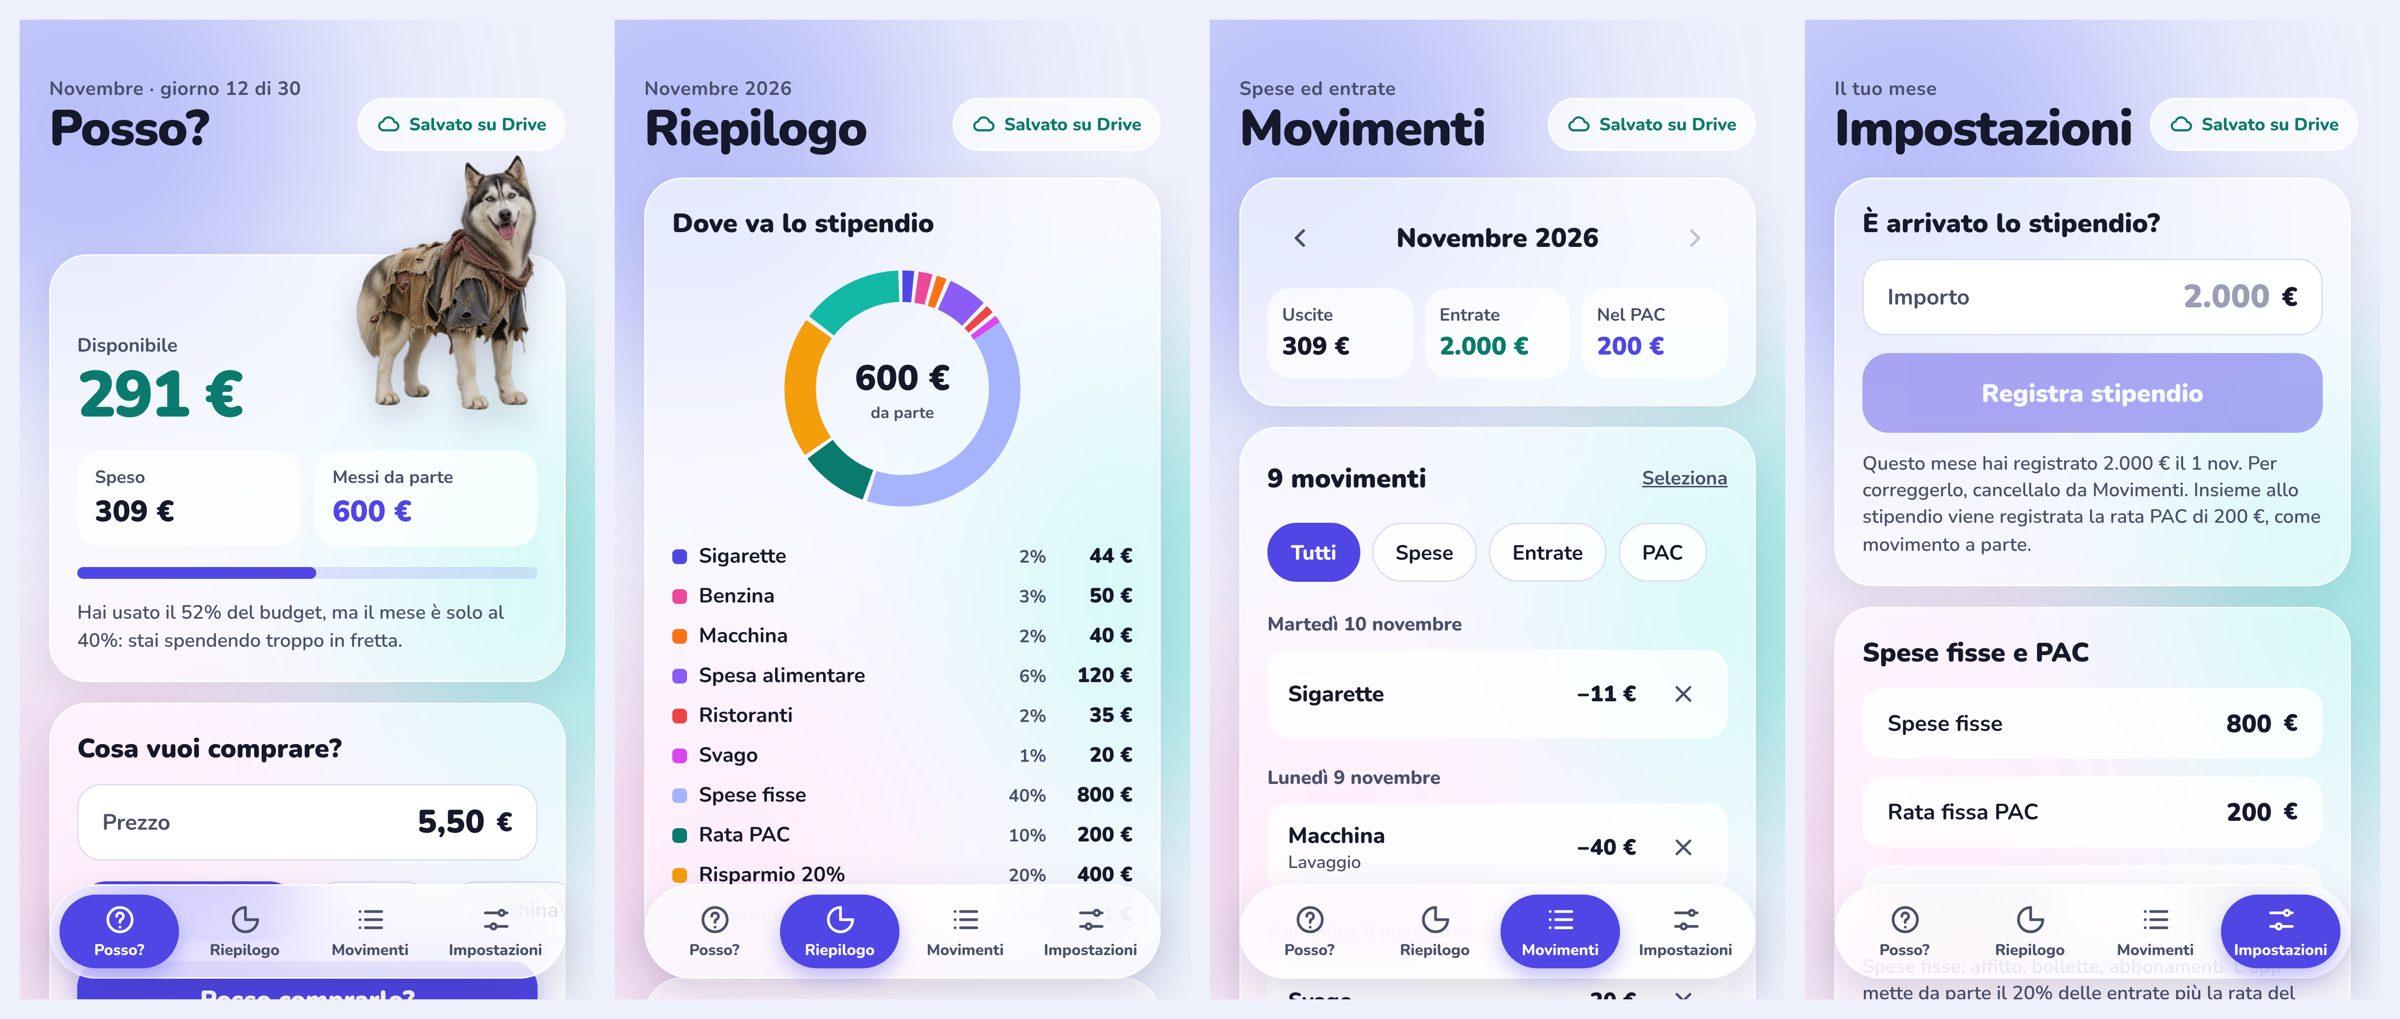
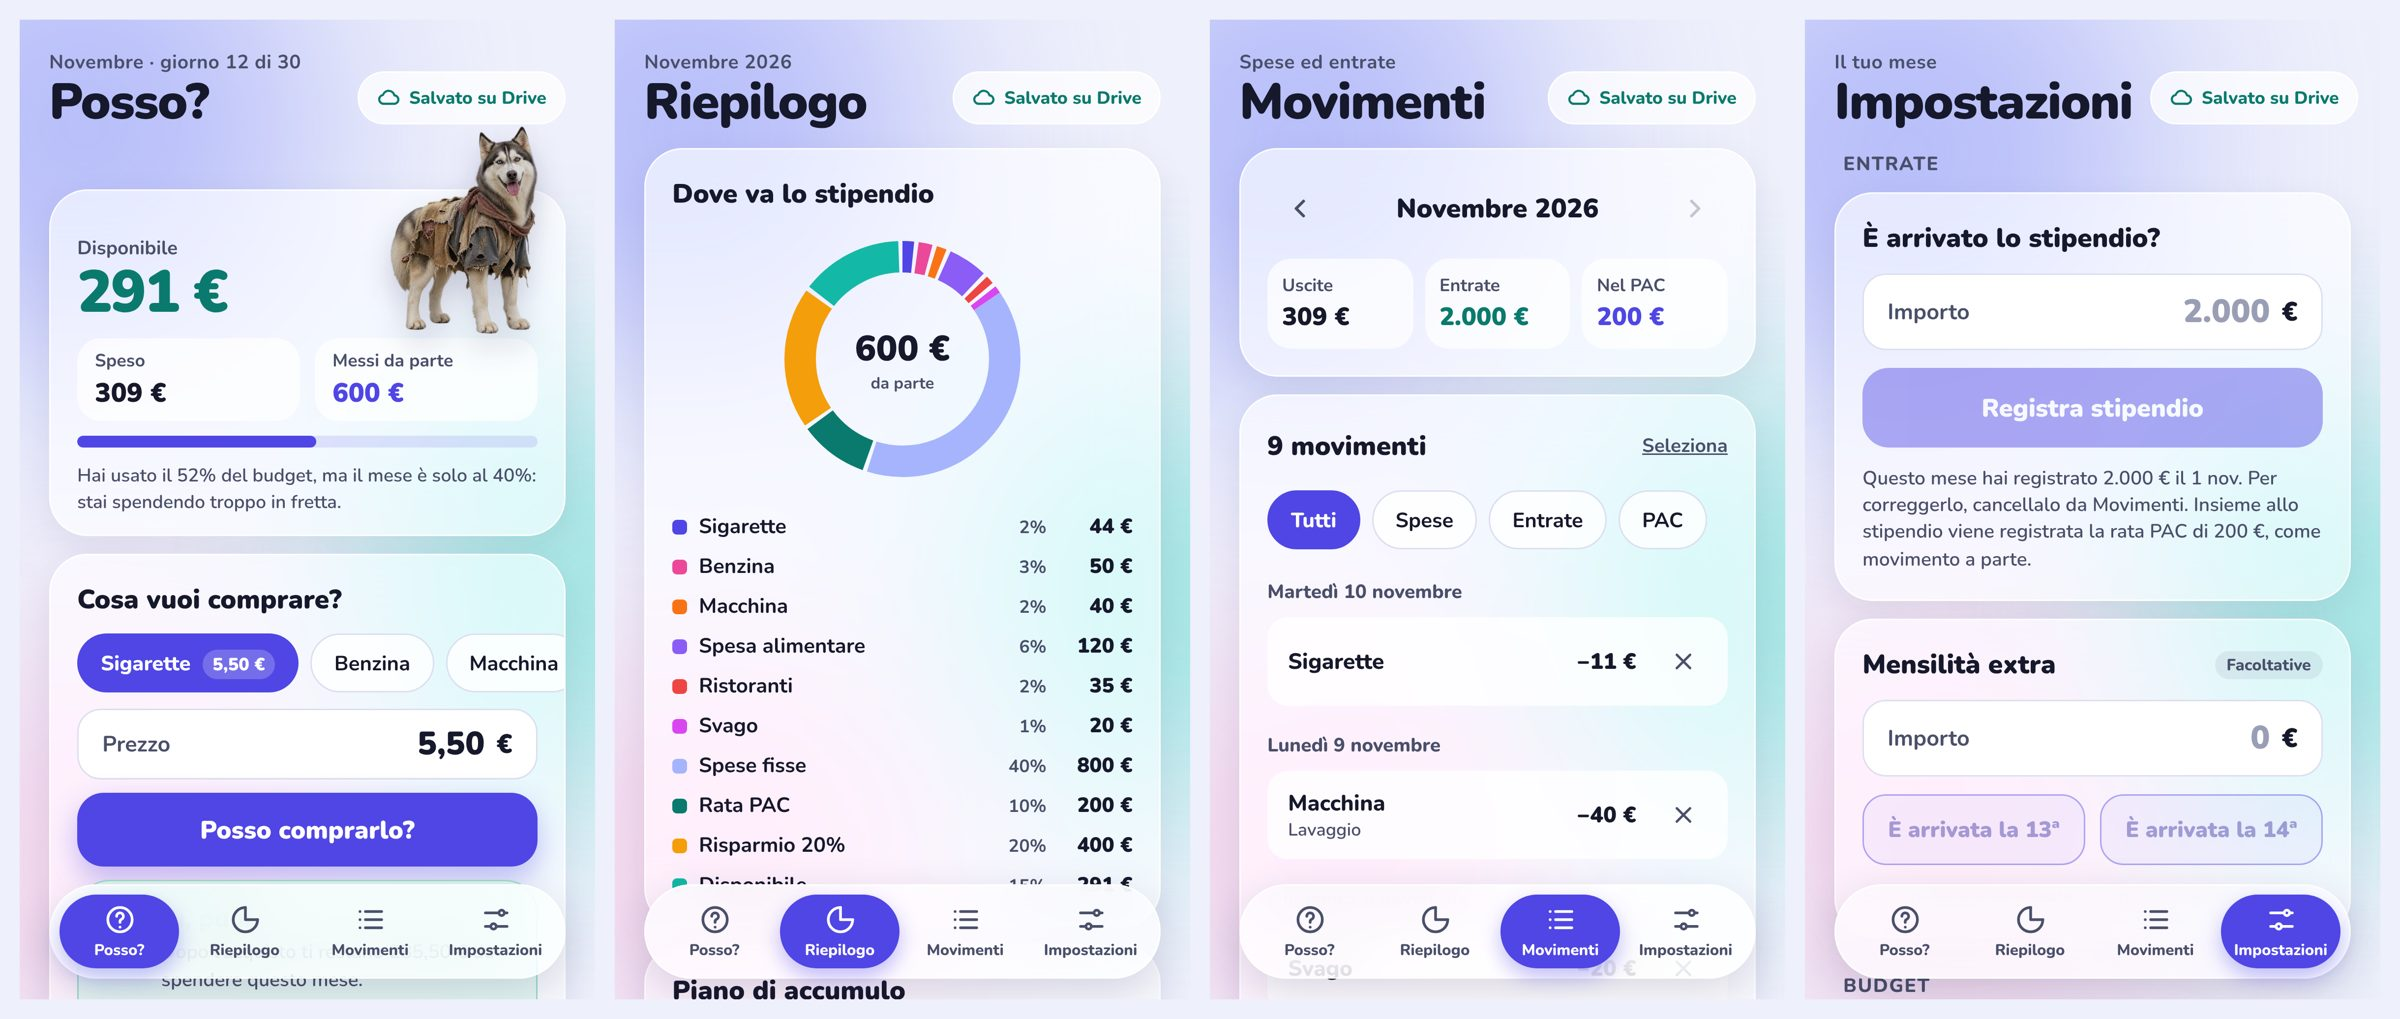
Schermate riordinate per l'uso quotidiano
Solo disposizione e ordine, nessuna funzione cambiata:
- Posso?: saldo più compatto; categoria prima del prezzo (Sigarette propone
  5,50 €), risposta subito sotto il bottone nello stesso riquadro; tutto
  visibile senza scorrere
- Riepilogo: piano di accumulo subito dopo la ciambella, con il bottone
  per la rata mancante
- Movimenti: barra Elimina in basso e sempre visibile durante la selezione
- Impostazioni: gruppi Entrate, Budget, Account e dati; 13ª e 14ª accanto
  allo stipendio
- README e immagine delle schermate aggiornati

Claude-Session: https://claude.ai/code/session_018e1DbR9MNBDqJLmGHoq1CP

diff --git a/app.js b/app.js
@@ -264,25 +264,24 @@
         <p class="nota">${frase}</p>
       </section>
 
-      <section class="vetro" aria-labelledby="t-compra">
+      <section class="vetro compra" aria-labelledby="t-compra">
         <h2 id="t-compra">Cosa vuoi comprare?</h2>
-        <label class="campo"><span class="nome-campo">Prezzo</span>
-          <input type="text" inputmode="decimal" autocomplete="off" placeholder="0" value="${esc(S.prezzo)}" data-campo="prezzo" aria-label="Prezzo in euro"><span class="euro">€</span>
-        </label>
         <div class="pillole" role="group" aria-label="Categoria">
           ${D.categorie.slice().sort((a, b) => (b.prezzo > 0) - (a.prezzo > 0)).map((c) => `<button type="button" class="pillola${c.prezzo > 0 ? ' rapida' : ''}" data-act="cat" data-id="${c.id}" aria-pressed="${c.id === S.catId}">${esc(c.nome)}${c.prezzo > 0 ? ` <span class="prezzo-rapido">${eur(c.prezzo)}</span>` : ''}</button>`).join('')}
         </div>
+        <label class="campo"><span class="nome-campo">Prezzo</span>
+          <input type="text" inputmode="decimal" autocomplete="off" placeholder="0" value="${esc(S.prezzo)}" data-campo="prezzo" aria-label="Prezzo in euro"><span class="euro">€</span>
+        </label>
         <button type="button" class="btn" data-act="chiedi" data-pulsante="chiedi"${pronto ? '' : ' disabled'}>Posso comprarlo?</button>
-      </section>
-
-      ${v ? `<section class="verdetto ${v.ok ? 'si' : 'no'}" aria-live="polite" id="verdetto">
-        ${v.ok ? ICONA.si : ICONA.no}
-        <div class="colonna">
-          <span class="titolo-v">${v.titolo}</span>
-          <span class="nota">${esc(v.motivo)}</span>
-          <button type="button" class="link" data-act="registra">${v.ok ? "L'ho comprato, registra la spesa" : 'Lo compro lo stesso'}</button>
-        </div>
-      </section>` : ''}`;
+        ${v ? `<div class="verdetto ${v.ok ? 'si' : 'no'}" aria-live="polite" id="verdetto">
+          ${v.ok ? ICONA.si : ICONA.no}
+          <div class="colonna">
+            <span class="titolo-v">${v.titolo}</span>
+            <span class="nota">${esc(v.motivo)}</span>
+            <button type="button" class="link" data-act="registra">${v.ok ? "L'ho comprato, registra la spesa" : 'Lo compro lo stesso'}</button>
+          </div>
+        </div>` : ''}
+      </section>`;
   }
 
   function viewRiepilogo() {
@@ -334,6 +333,15 @@
           </ul>
         </div>
         ${C.entrate() <= 0 ? '<p class="nota">Registra lo stipendio di questo mese per vedere come si divide.</p>' : ''}
+      </section>
+
+      <section class="vetro" aria-labelledby="t-pac">
+        <h2 id="t-pac">Piano di accumulo</h2>
+        <div class="griglia3">
+          <div class="mini"><span>Rata mensile</span><strong>${eur(D.pac)}</strong></div>
+          <div class="mini"><span>Versato finora</span><strong style="color: var(--verde)" data-conta="versato" data-valore="${C.versatoPac()}">${eur(C.versatoPac())}</strong></div>
+          <div class="mini"><span>13ª e 14ª</span><strong>${eur(C.extraAnno())}</strong></div>
+        </div>
         ${pacMancante ? `<button type="button" class="btn-sec" data-act="registra-pac">Registra la rata PAC di questo mese (${eur(D.pac)})</button>` : ''}
       </section>
 
@@ -352,15 +360,6 @@
         <div class="colonna"><span class="titolo-a">Sigarette in un anno</span><span class="nota">A questo ritmo: ${eur(sigMese)} al mese</span></div>
         <span class="cifra" data-conta="sigarette" data-formato="0" data-valore="${sigMese * 12}">${eur0(sigMese * 12)}</span>
       </section>` : ''}
-
-      <section class="vetro" aria-labelledby="t-pac">
-        <h2 id="t-pac">Piano di accumulo</h2>
-        <div class="griglia3">
-          <div class="mini"><span>Rata mensile</span><strong>${eur(D.pac)}</strong></div>
-          <div class="mini"><span>Versato finora</span><strong style="color: var(--verde)" data-conta="versato" data-valore="${C.versatoPac()}">${eur(C.versatoPac())}</strong></div>
-          <div class="mini"><span>13ª e 14ª</span><strong>${eur(C.extraAnno())}</strong></div>
-        </div>
-      </section>
 
       <button type="button" class="vetro vai-movimenti" data-act="tab" data-id="movimenti">
         <span class="colonna"><span class="principale">Movimenti del mese</span><span class="nota">${ultime.length} ${ultime.length === 1 ? 'movimento' : 'movimenti'} · vedi e cancella</span></span>
@@ -434,10 +433,6 @@
           ${voci.length ? `<button type="button" class="link" data-act="seleziona">${sel ? 'Fine' : 'Seleziona'}</button>` : ''}
         </div>
         <div class="pillole" role="group" aria-label="Mostra">${filtro('tutti', 'Tutti')}${filtro('spese', 'Spese')}${filtro('entrate', 'Entrate')}${filtro('risparmi', 'PAC')}</div>
-        ${sel && voci.length ? `<div class="barra-selezione">
-          <button type="button" class="link" data-act="seleziona-tutti">${nSel === voci.length ? 'Deseleziona tutti' : 'Seleziona tutti'}</button>
-          <button type="button" class="btn-pericolo" data-act="elimina-selezionati" data-pulsante="selezionati"${nSel ? '' : ' disabled'}>Elimina <span data-conta-sel>${nSel}</span></button>
-        </div>` : ''}
         ${voci.length ? gruppi.map((g) => `<div class="giorno">
           <h3 class="giorno-titolo">${esc(g.titolo)}</h3>
           <ul class="lista">${g.voci.map((v) => `<li class="voce-lista${sel && sel.has(v.id) ? ' scelta' : ''}">
@@ -447,6 +442,10 @@
             ${sel ? '' : `<button type="button" class="x" data-act="elimina-mov" data-id="${v.id}" data-tipo="${v.tipo}" aria-label="Elimina ${esc(v.titolo)} di ${eur(v.importo)}">${ICONA.x}</button>`}
           </li>`).join('')}</ul>
         </div>`).join('') : `<p class="nota">${tutte.length ? 'Nessun movimento di questo tipo.' : 'Nessun movimento in questo mese.'}</p>`}
+        ${sel && voci.length ? `<div class="barra-selezione">
+          <button type="button" class="link" data-act="seleziona-tutti">${nSel === voci.length ? 'Deseleziona tutti' : 'Seleziona tutti'}</button>
+          <button type="button" class="btn-pericolo" data-act="elimina-selezionati" data-pulsante="selezionati"${nSel ? '' : ' disabled'}>Elimina <span data-conta-sel>${nSel}</span></button>
+        </div>` : ''}
       </section>`;
   }
 
@@ -458,6 +457,7 @@
       <input type="text" inputmode="decimal" autocomplete="off" placeholder="0" value="${esc(valore)}" data-campo="${campo}" ${extraAttr || ''}><span class="euro">€</span></label>`;
 
     return `${testata('Il tuo mese', 'Impostazioni')}
+      <h2 class="gruppo-titolo">Entrate</h2>
       <section class="vetro" aria-labelledby="t-arrivato">
         <h2 id="t-arrivato">È arrivato lo stipendio?</h2>
         <label class="campo"><span class="nome-campo">Importo</span>
@@ -467,14 +467,6 @@
         <p class="nota">${stipendiMese.length
           ? `Questo mese hai registrato ${stipendiMese.map((e) => `${eur(e.importo)} il ${giorno.format(new Date(e.data))}`).join(' e ')}. Per correggerlo, cancellalo da Movimenti.`
           : 'Lo stipendio non è fisso: registralo ogni mese quando arriva.'}${D.pac > 0 ? ` Insieme allo stipendio viene registrata la rata PAC di ${eur(D.pac)}, come movimento a parte.` : ''}</p>
-      </section>
-
-      <section class="vetro" aria-labelledby="t-fisse">
-        <h2 id="t-fisse">Spese fisse e PAC</h2>
-        ${campoEuro('Spese fisse', 'speseFisse', numero(D.speseFisse))}
-        ${campoEuro('Rata fissa PAC', 'pac', numero(D.pac))}
-        ${campoEuro('PAC già versato', 'pacBase', numero(D.pacTotale))}
-        <p class="nota">Spese fisse: affitto, bollette, abbonamenti. L'app mette da parte il 20% delle entrate più la rata del PAC. "PAC già versato" è quanto avevi prima di usare l'app.</p>
       </section>
 
       <section class="vetro" aria-labelledby="t-extra">
@@ -489,6 +481,15 @@
         ${extraAnno.length ? `<ul class="lista">${extraAnno.map((e) => `<li class="voce-lista"><div class="colonna"><span class="principale">${esc(e.nome)}</span><span class="secondaria">${giorno.format(new Date(e.data))}</span></div><strong>${eur(e.importo)}</strong>
           <button type="button" class="x" data-act="elimina-extra" data-id="${e.id}" aria-label="Elimina ${esc(e.nome)}">${ICONA.x}</button></li>`).join('')}</ul>` : ''}
         <p class="nota">Si sommano alle entrate del mese in cui arrivano.</p>
+      </section>
+
+      <h2 class="gruppo-titolo">Budget</h2>
+      <section class="vetro" aria-labelledby="t-fisse">
+        <h2 id="t-fisse">Spese fisse e PAC</h2>
+        ${campoEuro('Spese fisse', 'speseFisse', numero(D.speseFisse))}
+        ${campoEuro('Rata fissa PAC', 'pac', numero(D.pac))}
+        ${campoEuro('PAC già versato', 'pacBase', numero(D.pacTotale))}
+        <p class="nota">Spese fisse: affitto, bollette, abbonamenti. L'app mette da parte il 20% delle entrate più la rata del PAC. "PAC già versato" è quanto avevi prima di usare l'app.</p>
       </section>
 
       <section class="vetro" aria-labelledby="t-categorie">
@@ -510,6 +511,7 @@
         </div>
       </section>
 
+      <h2 class="gruppo-titolo">Account e dati</h2>
       <section class="vetro" aria-labelledby="t-drive" data-drive-sezione>${sezioneDrive()}</section>
 
       <section class="vetro" aria-labelledby="t-backup">

diff --git a/style.css b/style.css
@@ -54,14 +54,14 @@ button:disabled { cursor: default; }
 .app {
   max-width: 480px;
   margin: 0 auto;
-  padding: calc(env(safe-area-inset-top) + 20px) 20px calc(env(safe-area-inset-bottom) + 112px);
+  padding: calc(env(safe-area-inset-top) + 12px) 20px calc(env(safe-area-inset-bottom) + 112px);
   display: flex;
   flex-direction: column;
-  gap: 14px;
+  gap: 12px;
 }
 
 /* Testata */
-.testata { display: flex; align-items: flex-end; justify-content: space-between; gap: 12px; padding-top: 18px; }
+.testata { display: flex; align-items: flex-end; justify-content: space-between; gap: 12px; padding-top: 8px; }
 .sopra { margin: 0; font-size: 13px; font-weight: 700; color: var(--tenue); letter-spacing: 0.02em; }
 h1 { margin: 0; font-size: 34px; font-weight: 900; letter-spacing: -0.02em; line-height: 1.1; }
 h2 { margin: 0; font-size: 18px; font-weight: 900; }
@@ -82,21 +82,21 @@ h2 { margin: 0; font-size: 18px; font-weight: 900; }
 }
 
 /* Saldo con il cane */
-.saldo { position: relative; margin-top: 52px; gap: 14px; }
+.saldo { position: relative; margin-top: 28px; gap: 10px; padding: 14px 18px; }
 .cane {
   position: absolute;
   right: 12px;
-  top: -64px;
-  width: 132px;
-  height: 172px;
+  top: -40px;
+  width: 110px;
+  height: 140px;
   object-fit: contain;
   object-position: bottom center;
   filter: drop-shadow(0 10px 10px rgba(30, 27, 75, 0.22));
   pointer-events: none;
 }
-.disponibile { display: flex; flex-direction: column; gap: 2px; min-height: 100px; justify-content: flex-end; padding-right: 142px; }
+.disponibile { display: flex; flex-direction: column; gap: 0; min-height: 76px; justify-content: flex-end; padding-right: 118px; }
 .etichetta-piccola { font-size: 13px; font-weight: 700; color: var(--tenue); }
-.cifra-grande { font-size: 44px; font-weight: 900; letter-spacing: -0.03em; line-height: 1.05; color: var(--verde); white-space: nowrap; }
+.cifra-grande { font-size: 40px; font-weight: 900; letter-spacing: -0.03em; line-height: 1.05; color: var(--verde); white-space: nowrap; }
 .cifra-grande.negativa { color: var(--rosso); }
 .cifra-grande.lunga { font-size: 34px; }
 .cifra-grande.vuota { color: #9A9EB5; }
@@ -387,6 +387,22 @@ span.test-icona.attesa { border: 2px solid #C9CCDD; }
 span.test-icona.corso { border: 2.5px solid rgba(79, 70, 229, 0.2); border-top-color: var(--accento); animation: gira 0.8s linear infinite; }
 .test li.ok svg, .test li.ko svg { animation: pop 0.4s cubic-bezier(0.34, 1.56, 0.64, 1); }
 .blocco { align-items: center; z-index: 25; }
+
+/* Titoli dei gruppi in Impostazioni */
+.gruppo-titolo { margin: 12px 6px -2px; font-size: 13px; font-weight: 800; letter-spacing: 0.06em; text-transform: uppercase; color: var(--tenue); }
+.testata + .gruppo-titolo { margin-top: 2px; }
+
+/* Posso?: passi e risposta dentro il riquadro dell'acquisto */
+.saldo .mini { padding: 7px 12px; }
+.saldo .nota { font-size: 12.5px; }
+.compra .campo { min-height: 48px; }
+.compra .btn { min-height: 50px; }
+.saldo .mini strong { font-size: 18px; }
+.compra { gap: 9px; }
+.compra .verdetto { -webkit-backdrop-filter: none; backdrop-filter: none; }
+
+/* Movimenti: la barra Elimina resta a portata di pollice mentre scorri */
+.barra-selezione { position: sticky; bottom: calc(env(safe-area-inset-bottom) + 92px); z-index: 5; padding: 10px 12px; margin: 0 -6px; border-radius: 18px; background: rgba(255, 255, 255, 0.92); -webkit-backdrop-filter: blur(16px); backdrop-filter: blur(16px); box-shadow: 0 8px 20px rgba(30, 27, 75, 0.14); }
 .campo-id { align-self: stretch; }
 .link.centrato { align-self: center; }
 .campo-id input { font-size: 16px; }

diff --git a/sw.js b/sw.js
@@ -2,7 +2,7 @@
 // Prima prova sempre il sito (così vedi subito la versione nuova); la copia salvata
 // serve solo se manca la rete, per mostrare l'app mentre si ricollega.
 // Quando cambi i file sul sito, aumenta il numero di VERSIONE.
-const VERSIONE = 'risparmio-v12';
+const VERSIONE = 'risparmio-v14';
 const FILE = [
   './', './index.html', './style.css', './app.js', './config.js', './manifest.webmanifest',
   './font/nunito.woff2',

diff --git a/README.md b/README.md
@@ -11,24 +11,26 @@ Web app per iPhone che ti dice se puoi permetterti una spesa e ti aiuta a rispar
 ## Cosa fa
 
 ### Posso?
-- Scrivi il prezzo, scegli la categoria e l'app risponde **"Sì, puoi"** o **"No, lascia stare"**, con il motivo.
+- In alto il **disponibile** del mese con il cane, quanto hai **speso** e quanto è **messo da parte**.
+- Sotto, **Cosa vuoi comprare?**: scegli la categoria, scrivi il prezzo e l'app risponde **"Sì, puoi"** o **"No, lascia stare"** con il motivo, subito sotto il bottone. Tutto sta in una schermata, senza scorrere.
 - Il tasto **Sigarette** è il primo e propone già **5,50 €**. Ogni categoria può avere il suo prezzo proposto.
-- In alto vedi il **disponibile** del mese, quanto hai **speso** e quanto è **messo da parte**.
 - Se lo stipendio del mese non è ancora registrato, l'app te lo chiede qui.
 
 ### Riepilogo
 - **Ciambella** con una fetta per ogni categoria in cui hai speso, più spese fisse, rata PAC, risparmio 20% e disponibile, con percentuali e importi.
-- Spese **per categoria**, **sigarette in un anno** a questo ritmo, **piano di accumulo** (rata, versato finora, 13ª e 14ª).
+- Subito sotto il **piano di accumulo** (rata, versato finora, 13ª e 14ª), poi le spese **per categoria** e le **sigarette in un anno** a questo ritmo.
 
 ### Movimenti
 - Tutte le spese, gli stipendi, le rate PAC e le mensilità extra, mese per mese e divise per giorno.
 - Filtri **Tutti / Spese / Entrate / PAC**.
-- Cancelli un movimento con la **×**, oppure tocchi **Seleziona** e ne elimini diversi insieme.
+- Cancelli un movimento con la **×**, oppure tocchi **Seleziona** e ne elimini diversi insieme: la barra **Elimina** resta in basso, a portata di pollice, mentre scorri.
 
 ### Impostazioni
+
+Divise in tre gruppi: **Entrate** (quello che usi ogni mese), **Budget** (da impostare una volta), **Account e dati**.
 - **È arrivato lo stipendio?**: registri lo stipendio quando arriva.
-- **Spese fisse**, **rata fissa PAC** e **PAC già versato** (quanto avevi prima di usare l'app).
 - **13ª e 14ª**, facoltative.
+- **Spese fisse**, **rata fissa PAC** e **PAC già versato** (quanto avevi prima di usare l'app).
 - **Categorie**: essenziale sì/no, limite al mese, prezzo proposto; puoi aggiungerle ed eliminarle.
 - **Google Drive**: account collegato, **Prova collegamento**, **Esci da Google**, **Cambia ID client**.
 - **Backup**: esporta o importa tutti i dati in un file.
